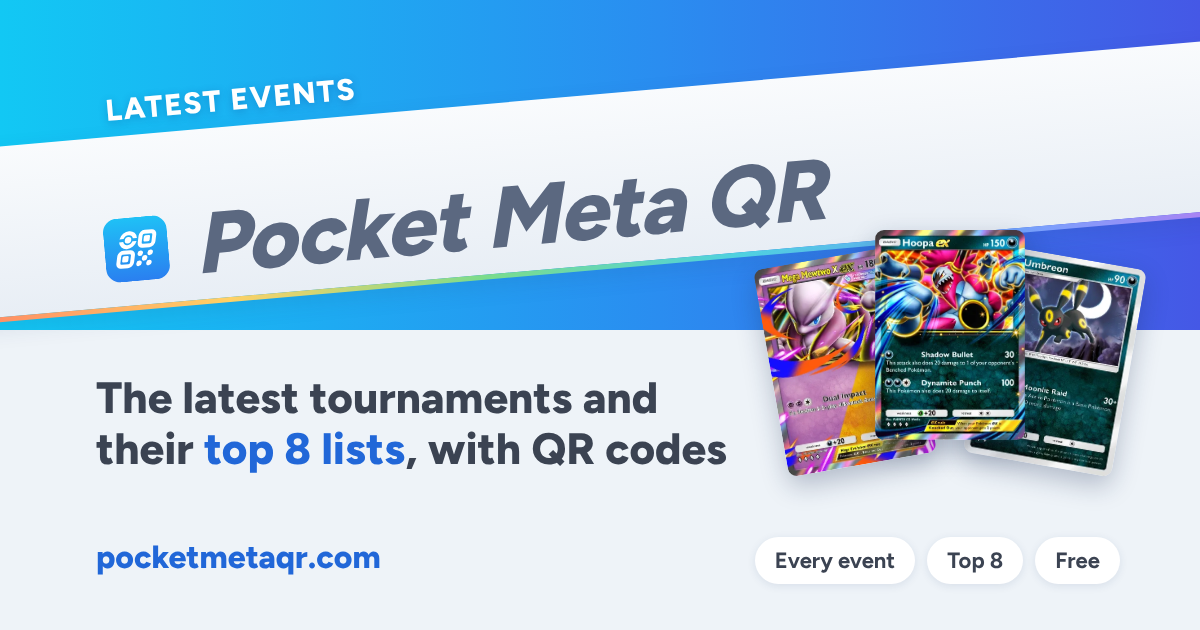
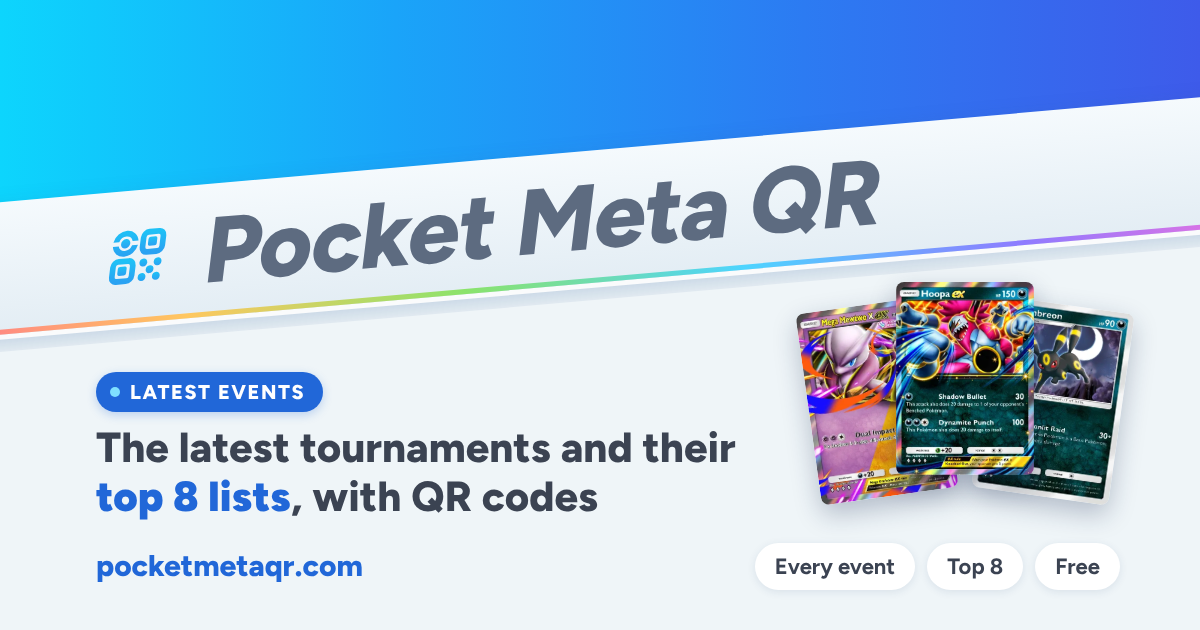
UI sync: artifact version 1795317460-df51
Tabs are real links (/, /events/, /packs/) so search engines follow them; a
normal click stays in the page. Empty intro slot (#seoi) for the R27 texts.
Section preview images redone on the og.png banner (no blue under the band,
section pill above the headline, art under the rainbow); new og-limited.png.

Claude-Session: https://claude.ai/code/session_01GJieyx2YUXReNUFSAYjj4J

diff --git a/site/index.html b/site/index.html
@@ -1,4 +1,4 @@
-<!-- ui: artifact version 1795315942-0433 -->
+<!-- ui: artifact version 1795317460-df51 -->
 <title>Pocket Meta QR – Pokémon TCG Pocket meta decks and tournaments with QR codes</title>
 <meta name="description" content="This week's winning Pokémon TCG Pocket decks and latest tournaments, the lists that top players use, and a QR code for every list to import it into the game.">
 <link rel="canonical" href="https://pocketmetaqr.com/">
@@ -1932,11 +1932,12 @@ a.dkev { text-decoration: none; }
   box-shadow: 0 -2px 3px rgba(var(--sh), calc(0.06 * var(--shk))), 0 -5px 11px rgba(var(--sh), calc(0.10 * var(--shk))), 0 2px 4px rgba(var(--sh), calc(0.06 * var(--shk))), inset 0 1px 0 rgba(255, 255, 255, 0.8); } /* shadow above, a short weak shadow below, light line on top */
 @media (prefers-color-scheme: dark) { :root:not([data-theme="light"]) .tbar { box-shadow: 0 -2px 3px rgba(0, 0, 0, 0.3), 0 -5px 11px rgba(0, 0, 0, 0.4), 0 2px 4px rgba(0, 0, 0, 0.25), inset 0 1px 0 rgba(255, 255, 255, 0.04); } }
 :root[data-theme="dark"] .tbar { box-shadow: 0 -2px 3px rgba(0, 0, 0, 0.3), 0 -5px 11px rgba(0, 0, 0, 0.4), 0 2px 4px rgba(0, 0, 0, 0.25), inset 0 1px 0 rgba(255, 255, 255, 0.04); }
-.tabs button { height: 32px; border: 0; border-radius: 999px; background: none; color: var(--muted); font-weight: 500; font-size: 0.875rem; cursor: pointer; } /* 14px */
-.tabs button[aria-selected="true"] { background: var(--tile); color: var(--ink); font-weight: 600;
+.seoi { max-width: 34em; margin: 10px auto 0; font-size: var(--fs-s); line-height: 1.45; color: var(--muted); } .seoi:empty { display: none; } /* Nov 22 (R27): the section intro page.mjs writes in; shown while the page loads, replaced by the list */
+.tabs :is(button, a) { display: flex; align-items: center; justify-content: center; text-decoration: none; -webkit-tap-highlight-color: transparent; height: 32px; border: 0; border-radius: 999px; background: none; color: var(--muted); font-weight: 500; font-size: 0.875rem; cursor: pointer; } /* 14px */
+.tabs :is(button, a)[aria-selected="true"] { background: var(--tile); color: var(--ink); font-weight: 600;
   box-shadow: inset 2px 3px 4px rgba(var(--sh), calc(0.14 * var(--shk))), inset -2px -2px 3px rgba(255, 255, 255, 0.85); }
-@media (prefers-color-scheme: dark) { :root:not([data-theme="light"]) .tabs button[aria-selected="true"] { box-shadow: inset 2px 3px 5px rgba(0, 0, 0, 0.5), inset -1px -1px 2px rgba(255, 255, 255, 0.05); } }
-:root[data-theme="dark"] .tabs button[aria-selected="true"] { box-shadow: inset 2px 3px 5px rgba(0, 0, 0, 0.5), inset -1px -1px 2px rgba(255, 255, 255, 0.05); }
+@media (prefers-color-scheme: dark) { :root:not([data-theme="light"]) .tabs :is(button, a)[aria-selected="true"] { box-shadow: inset 2px 3px 5px rgba(0, 0, 0, 0.5), inset -1px -1px 2px rgba(255, 255, 255, 0.05); } }
+:root[data-theme="dark"] .tabs :is(button, a)[aria-selected="true"] { box-shadow: inset 2px 3px 5px rgba(0, 0, 0, 0.5), inset -1px -1px 2px rgba(255, 255, 255, 0.05); }
 .list[hidden] { display: none; }
 /* ===== Limited Battle tab (Nov 18): a limited-time in-game event. It must look temporary: dashed edges, an hourglass,
    the days left on the tab. ===== */
@@ -1945,7 +1946,7 @@ a.dkev { text-decoration: none; }
 .tabs button#tabL { display: inline-flex; align-items: center; justify-content: center; gap: 3px; padding: 0 6px; outline: 1px dashed color-mix(in srgb, var(--muted) 35%, transparent); outline-offset: -3px; /* Nov 21: the same color as the other tabs; a dimmer outline */ white-space: nowrap; }
 .tabs button#tabL[hidden] { display: none; }
 #tabL .hg { width: 13px; height: 13px; flex: none; }
-@media (max-width: 599px) { .tabs .tlx { display: none; } .tabs button { font-size: 0.8125rem; } } /* phones: 13px (was 14px), same 32px tab height */ /* Nov 22: phones, 3 tabs: Meta · Events · Packs (full names on wider screens) */
+@media (max-width: 599px) { .tabs .tlx { display: none; } .tabs :is(button, a) { font-size: 0.8125rem; } } /* phones: 13px (was 14px), same 32px tab height */ /* Nov 22: phones, 3 tabs: Meta · Events · Packs (full names on wider screens) */
 #tabL .lbt { font-size: 10px; font-weight: 700; line-height: 1; padding: 2px 4px; border-radius: 999px; background: color-mix(in srgb, var(--muted) 14%, transparent); font-variant-numeric: tabular-nums; }
 .lbh { position: relative; padding: 14px var(--sp-4) 13px; border-radius: var(--r-card); background: var(--surface); box-shadow: var(--raised); overflow: hidden; }
 .lbh::before { content: ""; position: absolute; inset: 5px; border: 1.5px dashed var(--lb-line); border-radius: calc(var(--r-card) - 4px); pointer-events: none; }
@@ -2558,7 +2559,7 @@ a.dkev { text-decoration: none; }
   <div class="cpop ipop" id="iPop" role="dialog" aria-label="About this label" tabindex="-1" hidden><span class="grab" aria-hidden="true"></span><span class="parr" aria-hidden="true"></span><div class="ibody" id="iPopIn"></div><button class="sx" type="button" aria-label="Close" data-close="iPop"><svg viewBox="0 0 24 24" fill="none" stroke="currentColor" stroke-width="2" stroke-linecap="round" aria-hidden="true"><path d="M6 6l12 12M18 6 6 18"/></svg></button></div>
   <div class="cpop" id="cPop" role="dialog" aria-label="Card details" tabindex="-1" hidden><span class="grab" aria-hidden="true"></span><span class="parr" aria-hidden="true"></span><div id="cPopIn"></div><button class="sx" type="button" aria-label="Close" data-close="cPop"><svg viewBox="0 0 24 24" fill="none" stroke="currentColor" stroke-width="2" stroke-linecap="round" aria-hidden="true"><path d="M6 6l12 12M18 6 6 18"/></svg></button></div>
   <div class="tbar" id="tbar">
-  <div class="tabs" id="tabs" role="tablist" aria-label="View"><button type="button" role="tab" id="tabM" aria-selected="true" aria-controls="list" aria-label="Meta Decks">Meta<span class="tlx"> Decks</span></button><button type="button" role="tab" id="tabE" aria-selected="false" aria-controls="evl" aria-label="Latest Events"><span class="tlx">Latest </span>Events</button><button type="button" role="tab" id="tabP" aria-selected="false" aria-controls="pkv" aria-label="Booster Packs"><span class="tlx">Booster </span>Packs</button><button type="button" role="tab" id="tabL" aria-selected="false" aria-controls="lbl" hidden></button></div>
+  <div class="tabs" id="tabs" role="tablist" aria-label="View"><a role="tab" id="tabM" href="/" aria-selected="true" aria-controls="list" aria-label="Meta Decks">Meta<span class="tlx"> Decks</span></a><a role="tab" id="tabE" href="/events/" aria-selected="false" aria-controls="evl" aria-label="Latest Events"><span class="tlx">Latest </span>Events</a><a role="tab" id="tabP" href="/packs/" aria-selected="false" aria-controls="pkv" aria-label="Booster Packs"><span class="tlx">Booster </span>Packs</a><button type="button" role="tab" id="tabL" aria-selected="false" aria-controls="lbl" hidden></button></div>
   <div class="fwrap">
     <button class="theme-btn filt-btn" id="filtBtn" type="button" aria-label="Search and filter decks" title="Search and filter" aria-expanded="false" aria-controls="filt" hidden><svg viewBox="0 0 24 24" fill="none" stroke="currentColor" stroke-width="2" stroke-linecap="round" stroke-linejoin="round" aria-hidden="true"><path d="M4 5h16l-6.2 7.4V18l-3.6 2v-7.6z"/></svg><span class="fdot" id="fdot" hidden></span></button>
     <div class="filt" id="filt" hidden>
@@ -2575,7 +2576,7 @@ a.dkev { text-decoration: none; }
   <section class="t1s t1s-wait" id="t10" aria-label="Top 10 decks"><p class="t1s-h"><b>Top 10</b></p></section>
   <div class="lsh" id="lsh" hidden><span>All decks<b id="lshN"></b></span><span class="lshc">share &middot; win</span></div>
   <section id="pkv" aria-label="Packs for the meta" hidden></section>
-  <main class="list" id="list"><div class="empty">Loading decks&hellip;</div></main>
+  <main class="list" id="list"><div class="empty">Loading decks&hellip;<p class="seoi" id="seoi"></p></div></main>
   <section class="list" id="evl" aria-label="Latest events" hidden></section>
   <section class="list" id="lbl" aria-label="Limited Battle decks" hidden></section>
 
@@ -5735,6 +5736,12 @@ var qrcode=function(){var t=function(t,r){var e=t,n=g[r],o=null,i=0,a=null,u=[],
     if (save) try { localStorage.setItem("pmq-tab", t); } catch (err) {}
     syncRoute(true);
   }
+  // Nov 22: the tabs are links (search engines follow them to /events/, /packs/); a normal click stays in the page.
+  // On the site a Ctrl / Cmd / Shift click opens the address in a new tab. Elsewhere (artifact): no addresses (no href).
+  if (!ROUTED) document.querySelectorAll("#tabs a[role=tab]").forEach((a) => { a.removeAttribute("href"); a.tabIndex = 0; });
+  $("tabs").addEventListener("click", (e) => { const a = e.target.closest("a[role=tab]"); if (!a) return;
+    if (ROUTED && (e.metaKey || e.ctrlKey || e.shiftKey || e.altKey)) { e.stopPropagation(); return; } e.preventDefault(); }, true);
+  $("tabs").addEventListener("keydown", (e) => { const a = e.target.closest("a[role=tab]"); if (a && !a.hasAttribute("href") && (e.key === "Enter" || e.key === " ")) { e.preventDefault(); a.click(); } });
   $("tabM").addEventListener("click", () => { setTab("decks"); setMV("decks"); });
   ["pointerenter", "pointerdown", "focus"].forEach((ev) => $("tabP").addEventListener(ev, () => { if (data) pkLoad().catch(() => {}); }, { once: true, passive: true }));
   $("tabP").addEventListener("click", () => { setTab("decks"); setMV("packs"); try { localStorage.setItem("pmq-tab", "packs"); } catch (err) {} });
